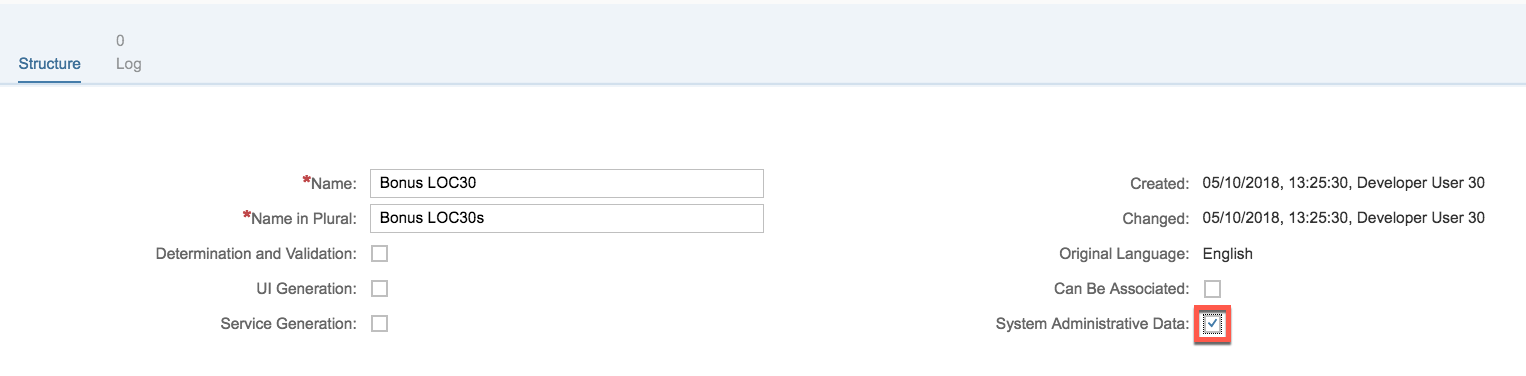
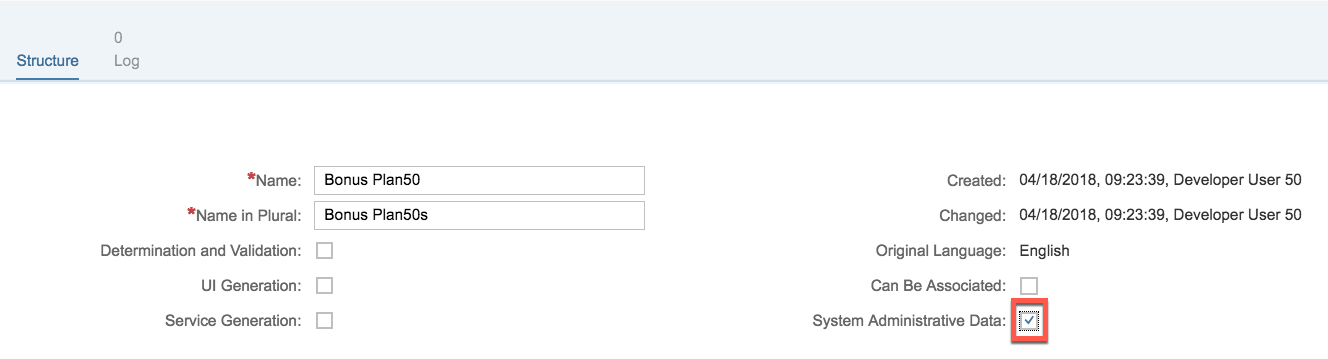
Restore Exercise 11

diff --git a/Day1/Exercise_11/Exercise_11.md b/Day1/Exercise_11/Exercise_11.md
@@ -33,16 +33,6 @@ Below are the prerequisites for this exercise.
 * Google Chrome: Please complete this exercise using the Google Chrome browser
 * **Authorizations:** Your user needs a business role with business catalog **Extensibility** (ID: `SAP_CORE_BC_EXT`)
 
-## Notes
-  
-In order to separate the objects and data created in different workshops, please replace the **LOC** to the location of workshop that your instructor has instructed.  For example:
-
-	- SYD for Sydney
-	- SAO for Sao Paulo
-	- TOK for Tokyo
-	- WDF for Walldorf
-
-Replace the **XX** with the number that your instructor has assigned to you for all the exercises. For example, "Bonus LOCXX" should be "Bonus SYD01" for the workshop in Sydney and assigned number 01. 
 
 ## Steps
 
@@ -63,44 +53,26 @@ In the first part, a Manager wants to define business objects "Bonus Plan" for e
 
 **Start** with checking the prerequisite role.
 
-1. Logon to the S/4HANA Cloud system.  The presenter will provide you the logon user and password.  The **XX** is the number that you have been assigned to use for the exercise. 
-
-	![](images/1.png)
-1. You will see applications for the catalog of Extensibility.  
-
-	![](images/2.png)
+1. Logon to the S/4HANA Cloud system.  The presenter will provide you the logon user and password.  The **XX** is the number that you have been assigned to use for the exercise. ![Maintain Business Users application tile](images/1.png)
+1. You will see applications for the catalog of Extensibility.  ![Maintain Business Users application tile](images/2.png)
 
 ### <a name="creating-a-new-custom-business-object"></a> Creating a new Custom Business Object
 
 1. **Create** the Custom Business Object's application by clicking its tile 
 
-	![](images/3.png)
-	
-1. Press the **New** action to start creation of a Custom Business Object  
+	![Custom Business Objects application tile](images/3.png)
+1. Press the **New** action to start creation of a Custom Business Object  ![Press New](images/4.png)
+1. In the opening pop Up **fill** in the Name "Bonus PlanXX". The other editable fields will get proposals automatically but can be changed.  
 
-	![](images/4.png)
-	
-1. In the opening pop Up **fill** in the Name "Bonus LOCXX". The other editable fields will get proposals automatically but can be changed. 
-
-	![](images/5.png) 
-	
+	![Creation Pop Up](images/5.png) 
 1. Execute the **Create** action.
 
 ### <a name="defining-the-data-structure"></a> Defining the data structure
 
-1. In the following view for editing the custom business object **Go to Fields and Logic** of the root node "Bonus LOCXX".  
-
-	![](images/6.png) 
-	
-1. Click on **New** to create new field for the object. 
-
-	![](images/7.png) 
-	
-1. Enter "ID" for the Naming. Choose "Text" for the Type. Keep 20 for the Length. Check the Key checkbox. 
-
-	![](images/8.png)
-	
-1. Repeat the above 2 steps to **create** following fields by clicking on **New** for each field. 
+1. In the following view for editing the custom business object **Go to Fields and Logic** of the root node "Bonus PlanXX".  ![Go to Fields and Logic](images/6.png) 
+1. Click on **New** to create new field for the object. ![Creation Pop Up](images/7.png) 
+1. Enter "ID" for the Naming. Choose "Text" for the Type. Keep 20 for the Length. Check the Key checkbox. ![Creation Pop Up](images/8.png)
+1. Repeat the above 2 steps to **create** following fields by clicking on **New** for each field.
 
 	| Field Name     | Field Properties             | Tooltip     |
 	| :------------- | :--------------------------- | :-----------|
@@ -116,34 +88,22 @@ In the first part, a Manager wants to define business objects "Bonus Plan" for e
 	| Employee ID | Text of length 12  | |
 	| Employee Name | Text of length 40, Read Only   | |
 
-1. The UI for maintaining fields looks as follows. 
-	
-	![](images/10.png)
+1. The UI for maintaining fields looks as follows. ![Custom Business Object's Field List View](images/10.png)
 
 1. Go back via the application's **Back** button. 
-
-	![](images/9.png)
 
 
 ### <a name="Adding-standard-data-to-the-structure"></a> Adding standard data to the structure
 
-1. Back in the business Object's definition overview, **check** the "System Administrative Data" box to add standardized fields for `Created On`, `Created By`, `Last Changed On` and `Last Changed By`.  
-
-	![](images/11.png) 
-	
+1. Back in the business Object's definition overview, **check** the System Administrative Data box to add standardized fields for `Created On`, `Created By`, `Last Changed On` and `Last Changed By`.  ![Check System Administrative Data](images/11.png)
 	By checking this box the four fields also appear as uneditable in the field list.  These fields will be filled and updated automatically, so that you do not need to implement logic for this. Logic implementations for these fields even would be ignored.
 
 ### <a name="creating-the-database-persistence"></a> Creating the database persistence
 
-1. **Publish** the Business Object "Bonus LOCXX".  
-
-	![](images/12.png) 
-	
+1. **Publish** the Business Object `Bonus PlanXX`.  ![Press Publish](images/12.png)
 	This creates the database persistence of the Business Object.
 	
-1. You will see **Published** in green for this object when the publishing is completed. 
-
-	![](images/13.png)
+1. You will **Published** in green for this object when the publishing is completed. ![Press Publish](images/14.png)
 
 
 ## Summary
